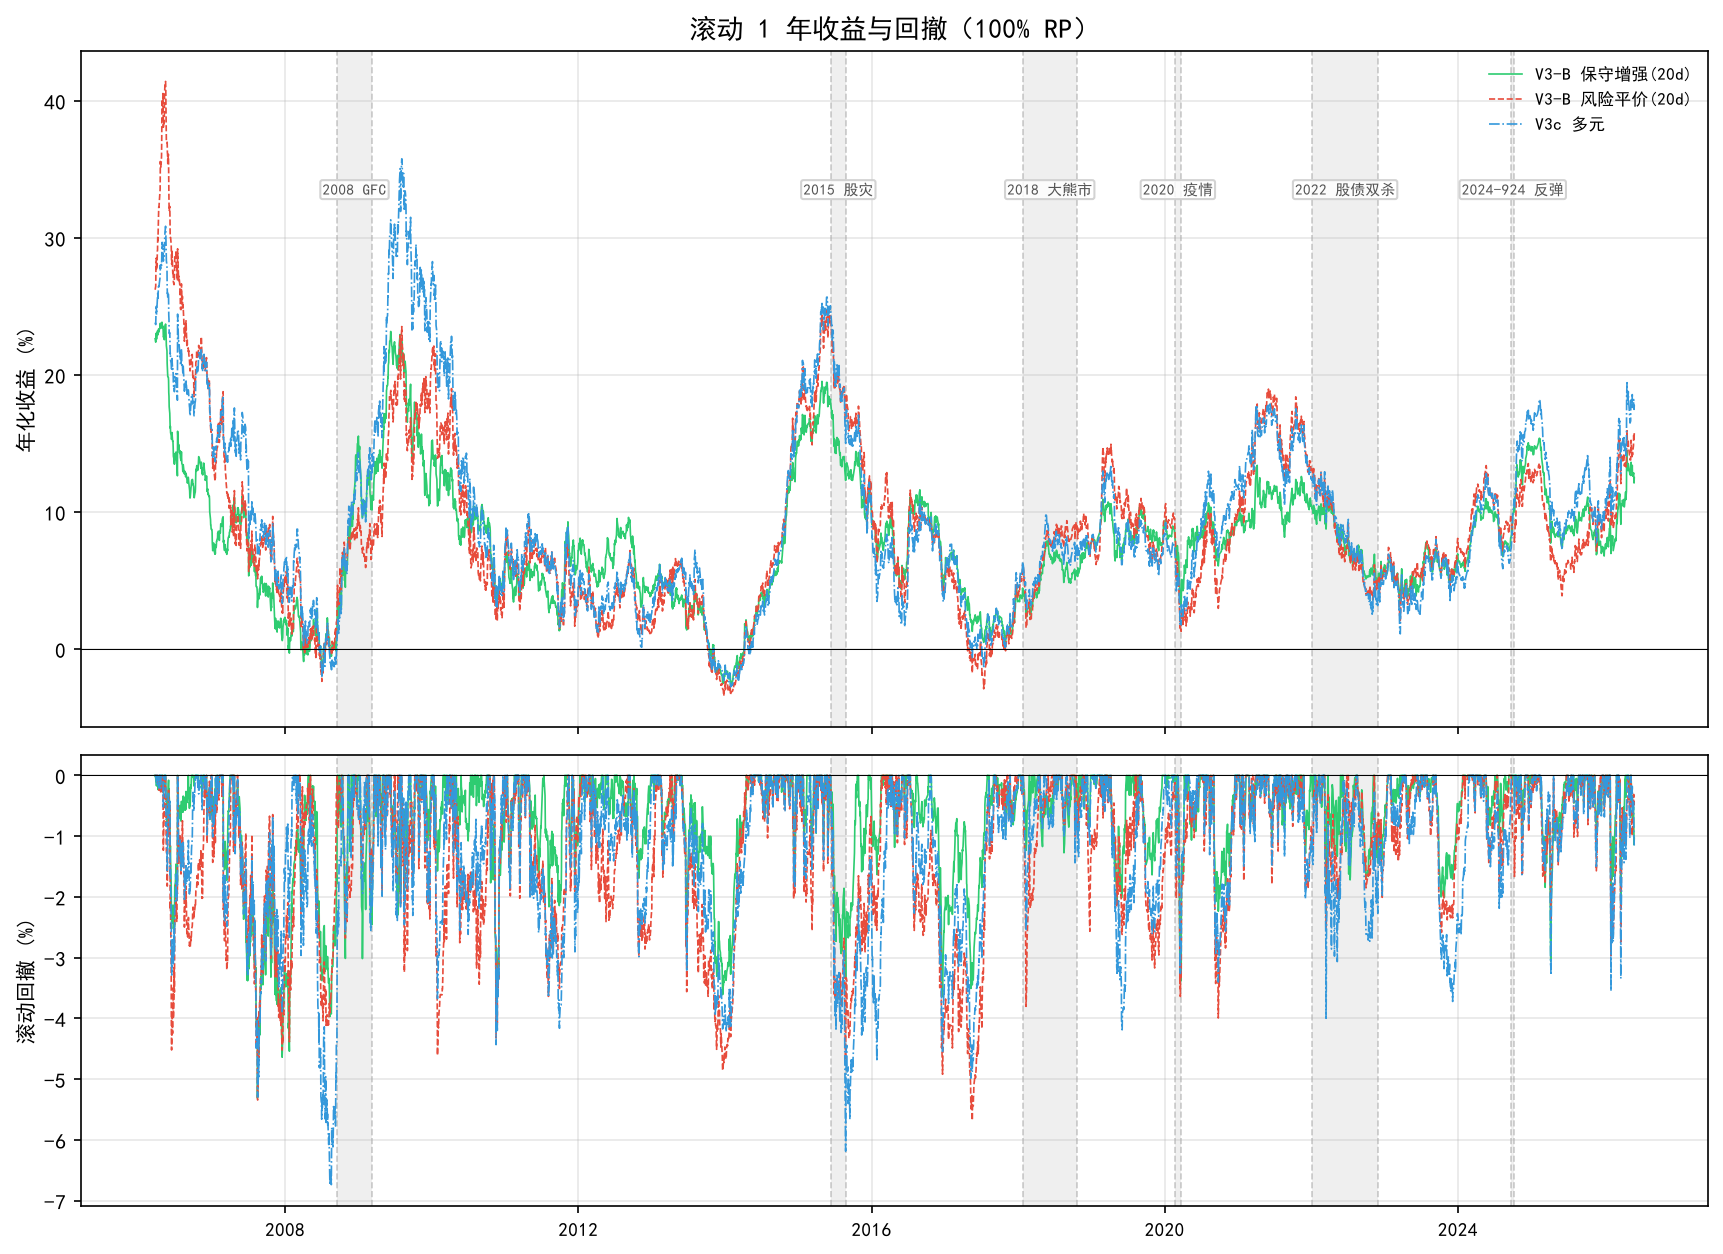
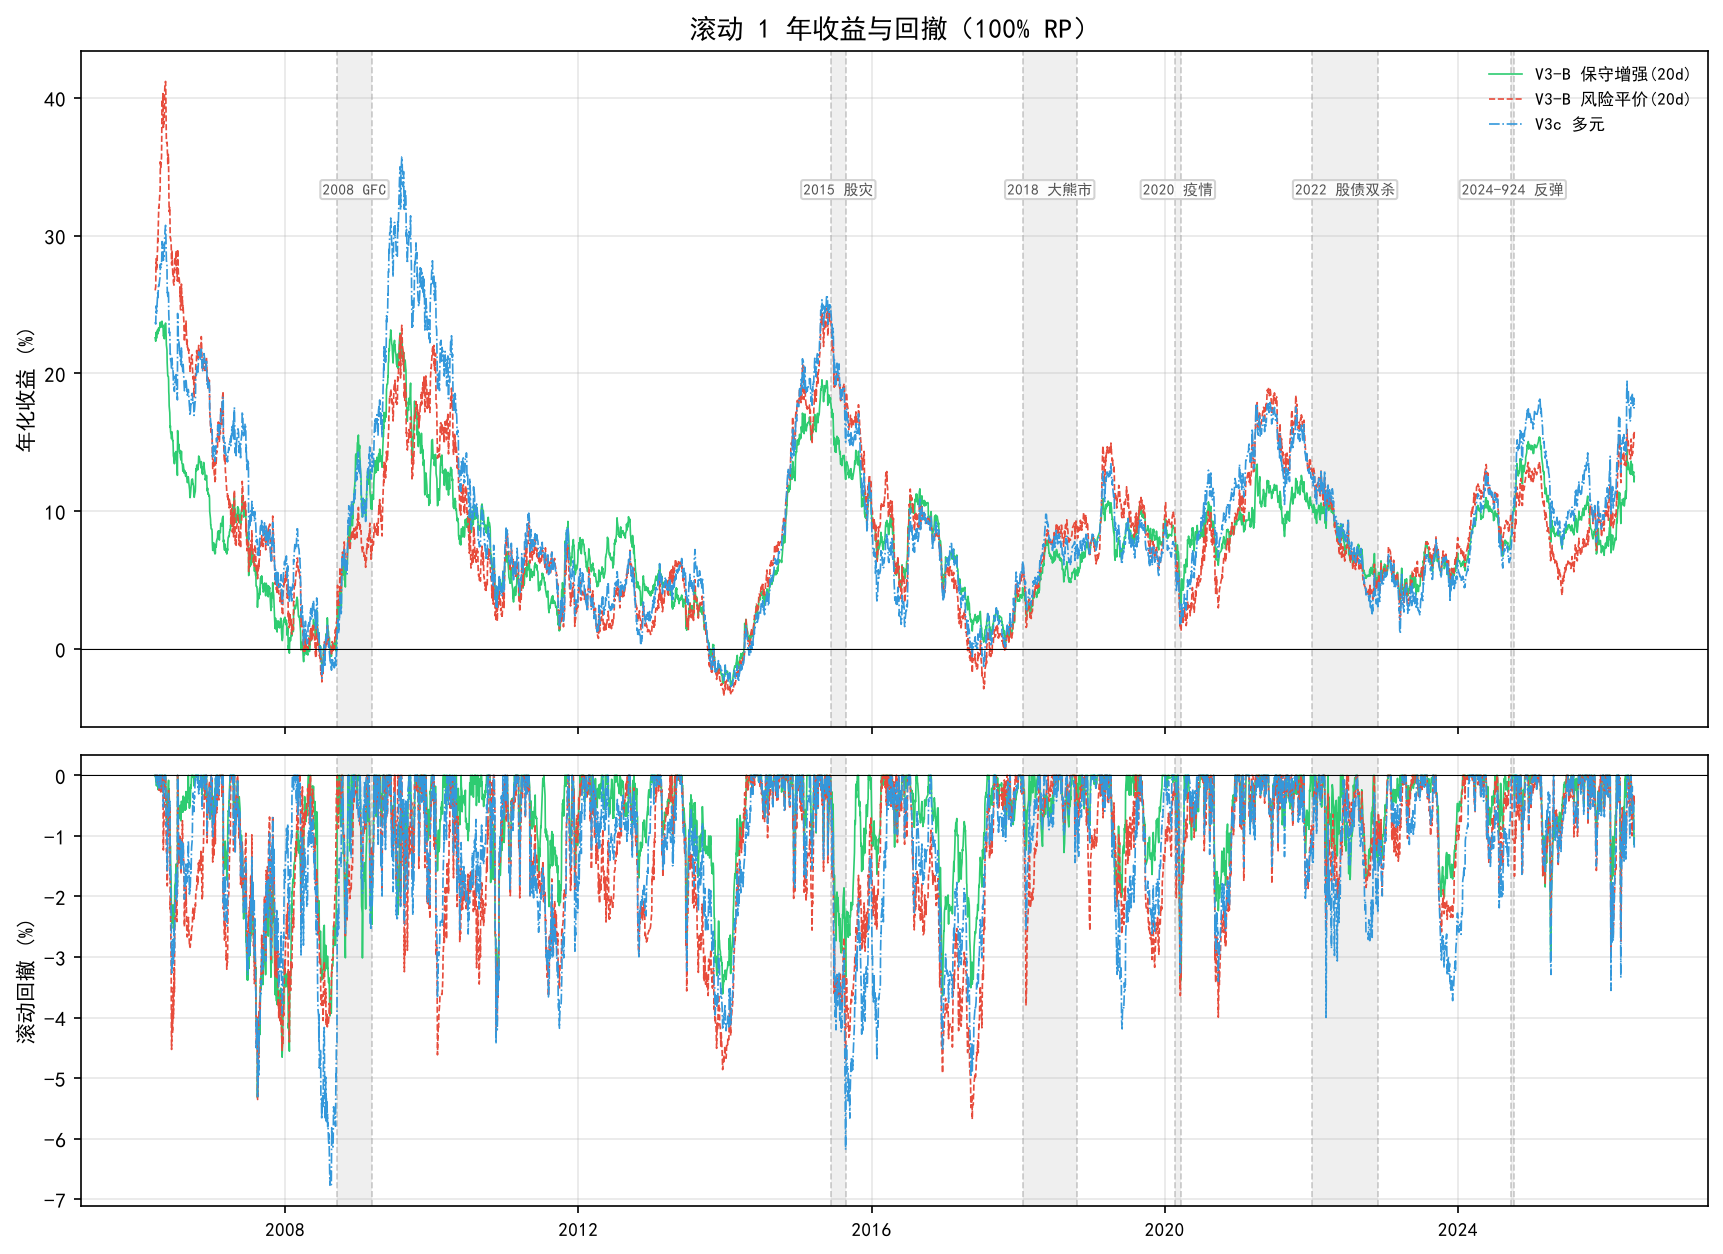
fix: nonferr 沪铜段升水校准 — 159980 ETF vs 沪铜重合期拖累 -0.95%/年，annual_deduct 0→0.0095（同 WTI 校准法）

diff --git a/docs/index.html b/docs/index.html
@@ -1624,9 +1624,10 @@ function downloadHTML() {
 
 
 
+
 <!-- ALLWEATHER_SYNC_START --><script>
 (function(){
-const D = {"V3-B 保守增强(20d)": {"100% RP": {"cum_return": 4.557159, "cagr": 0.082643, "vol": 0.036242, "mdd": -0.053127, "sharpe": 1.811231, "calmar": 1.555561, "final_nv": 5.5572}, "85% RP": {"cum_return": 3.548181, "cagr": 0.072646, "vol": 0.030806, "mdd": -0.04448, "sharpe": 1.806361, "calmar": 1.633238, "final_nv": 4.5482}, "70% RP": {"cum_return": 2.719997, "cagr": 0.062711, "vol": 0.025369, "mdd": -0.035775, "sharpe": 1.801793, "calmar": 1.752915, "final_nv": 3.72}, "动态": {"cum_return": 3.855891, "cagr": 0.075902, "vol": 0.032362, "mdd": -0.039691, "sharpe": 1.820113, "calmar": 1.912344, "final_nv": 4.8559}}, "V3-B 风险平价(20d)": {"100% RP": {"cum_return": 5.367113, "cagr": 0.089484, "vol": 0.049041, "mdd": -0.056805, "sharpe": 1.478027, "calmar": 1.575288, "final_nv": 6.3671}, "85% RP": {"cum_return": 4.113521, "cagr": 0.078481, "vol": 0.041685, "mdd": -0.046388, "sharpe": 1.474884, "calmar": 1.691834, "final_nv": 5.1135}, "70% RP": {"cum_return": 3.101907, "cagr": 0.06753, "vol": 0.034329, "mdd": -0.036177, "sharpe": 1.471935, "calmar": 1.866663, "final_nv": 4.1019}, "动态": {"cum_return": 4.270231, "cagr": 0.079989, "vol": 0.043353, "mdd": -0.056805, "sharpe": 1.452915, "calmar": 1.408131, "final_nv": 5.2702}}, "V3c 多元": {"100% RP": {"cum_return": 6.46871, "cagr": 0.097563, "vol": 0.051231, "mdd": -0.067459, "sharpe": 1.572556, "calmar": 1.446259, "final_nv": 7.4687}, "85% RP": {"cum_return": 4.858101, "cagr": 0.08529, "vol": 0.043546, "mdd": -0.056448, "sharpe": 1.568212, "calmar": 1.510948, "final_nv": 5.8581}, "70% RP": {"cum_return": 3.588929, "cagr": 0.073089, "vol": 0.035861, "mdd": -0.045343, "sharpe": 1.564057, "calmar": 1.611921, "final_nv": 4.5889}}, "_yearly": {"V3-B 保守增强(20d)": {"2005": 0.171943, "2006": 0.114891, "2007": 0.019321, "2008": 0.140551, "2009": 0.124558, "2010": 0.058963, "2011": 0.063884, "2012": 0.056069, "2013": -0.004883, "2014": 0.148338, "2015": 0.101585, "2016": 0.056621, "2017": 0.031086, "2018": 0.075159, "2019": 0.081299, "2020": 0.086555, "2021": 0.09837, "2022": 0.050342, "2023": 0.062217, "2024": 0.136445, "2025": 0.067619, "2026": 0.061539}, "V3-B 风险平价(20d)": {"2005": 0.173158, "2006": 0.202223, "2007": 0.03873, "2008": 0.090164, "2009": 0.199517, "2010": 0.052825, "2011": 0.029799, "2012": 0.022616, "2013": 0.010806, "2014": 0.175591, "2015": 0.108128, "2016": 0.04507, "2017": 0.036892, "2018": 0.077837, "2019": 0.087798, "2020": 0.094322, "2021": 0.121297, "2022": 0.048574, "2023": 0.071175, "2024": 0.115059, "2025": 0.089827, "2026": 0.069804}, "V3c 多元": {"2005": 0.168516, "2006": 0.199244, "2007": 0.055934, "2008": 0.131824, "2009": 0.258722, "2010": 0.063059, "2011": 0.035003, "2012": 0.043586, "2013": 0.009462, "2014": 0.17402, "2015": 0.096382, "2016": 0.044018, "2017": 0.042879, "2018": 0.076429, "2019": 0.074623, "2020": 0.111851, "2021": 0.118135, "2022": 0.047497, "2023": 0.054594, "2024": 0.154794, "2025": 0.095249, "2026": 0.085486}}, "_events": {"V3-B 保守增强(20d)": {"2008 GFC": 0.108117, "2015 股灾": -0.029055, "2016 熔断": -0.000618, "2017 债熊": 0.030098, "2018 大熊市": 0.044629, "2019 春季反弹": 0.031272, "2020 疫情": -0.030281, "2020-Q4 内需复苏": 0.009538, "2021-2 白马回撤": 0.007111, "2022 股债双杀": 0.048261, "2022 理财赎回": 0.006588, "2024 雪球危机": 0.023271, "2024-08 长债": 0.025626, "2024-924 反弹": 0.022485, "2025-Q1 长债": 0.005315, "2025-9 关税": 0.030282}, "V3-B 风险平价(20d)": {"2008 GFC": 0.065813, "2015 股灾": -0.037725, "2016 熔断": -0.003917, "2017 债熊": 0.033713, "2018 大熊市": 0.060255, "2019 春季反弹": 0.066382, "2020 疫情": -0.03211, "2020-Q4 内需复苏": 0.010181, "2021-2 白马回撤": 0.016257, "2022 股债双杀": 0.052742, "2022 理财赎回": 0.005107, "2024 雪球危机": 0.026172, "2024-08 长债": 0.008684, "2024-924 反弹": -0.010897, "2025-Q1 长债": 0.008591, "2025-9 关税": 0.036034}, "V3c 多元": {"2008 GFC": 0.160741, "2015 股灾": -0.054204, "2016 熔断": -0.006506, "2017 债熊": 0.040276, "2018 大熊市": 0.047133, "2019 春季反弹": 0.051029, "2020 疫情": -0.024429, "2020-Q4 内需复苏": 0.009352, "2021-2 白马回撤": 0.013484, "2022 股债双杀": 0.045918, "2022 理财赎回": 0.016303, "2024 雪球危机": 0.026667, "2024-08 长债": 0.037367, "2024-924 反弹": 0.03669, "2025-Q1 长债": 0.018643, "2025-9 关税": 0.040797}}, "_bootstrap": {"V3-B 保守增强(20d)": {"p5": 0.111155, "p25": 0.290412, "median": 0.414498, "p75": 0.538985, "p95": 0.741538, "annual_median": 0.071817, "loss_prob": 0.009}, "V3-B 风险平价(20d)": {"p5": 0.077417, "p25": 0.302263, "median": 0.483476, "p75": 0.654195, "p95": 0.949033, "annual_median": 0.082072, "loss_prob": 0.025}, "V3c 多元": {"p5": 0.044519, "p25": 0.279242, "median": 0.446857, "p75": 0.624361, "p95": 0.931168, "annual_median": 0.076676, "loss_prob": 0.03}}, "_regime": {"V3-B 保守增强(20d)": {"股牛+债牛": {"avg": 0.02918, "n": 34}, "股牛+债熊": {"avg": 0.009304, "n": 14}, "股熊+债牛": {"avg": 0.022209, "n": 29}, "股熊+债熊": {"avg": -0.00235, "n": 8}}, "V3-B 风险平价(20d)": {"股牛+债牛": {"avg": 0.029174, "n": 34}, "股牛+债熊": {"avg": 0.019409, "n": 14}, "股熊+债牛": {"avg": 0.019935, "n": 29}, "股熊+债熊": {"avg": 0.006701, "n": 8}}, "V3c 多元": {"股牛+债牛": {"avg": 0.033837, "n": 34}, "股牛+债熊": {"avg": 0.019775, "n": 14}, "股熊+债牛": {"avg": 0.020745, "n": 29}, "股熊+债熊": {"avg": 0.003863, "n": 8}}}};
+const D = {"V3-B 保守增强(20d)": {"100% RP": {"cum_return": 4.544011, "cagr": 0.082524, "vol": 0.03623, "mdd": -0.053196, "sharpe": 1.808548, "calmar": 1.551309, "final_nv": 5.544}, "85% RP": {"cum_return": 3.539026, "cagr": 0.072546, "vol": 0.030796, "mdd": -0.044539, "sharpe": 1.803705, "calmar": 1.628819, "final_nv": 4.539}, "70% RP": {"cum_return": 2.713826, "cagr": 0.062629, "vol": 0.025361, "mdd": -0.035824, "sharpe": 1.799163, "calmar": 1.748227, "final_nv": 3.7138}, "动态": {"cum_return": 3.845346, "cagr": 0.075794, "vol": 0.032349, "mdd": -0.039729, "sharpe": 1.817511, "calmar": 1.907793, "final_nv": 4.8453}}, "V3-B 风险平价(20d)": {"100% RP": {"cum_return": 5.334406, "cagr": 0.089224, "vol": 0.04902, "mdd": -0.056805, "sharpe": 1.473372, "calmar": 1.570715, "final_nv": 6.3344}, "85% RP": {"cum_return": 4.091169, "cagr": 0.078262, "vol": 0.041667, "mdd": -0.046388, "sharpe": 1.470278, "calmar": 1.687119, "final_nv": 5.0912}, "70% RP": {"cum_return": 3.087125, "cagr": 0.067351, "vol": 0.034314, "mdd": -0.03625, "sharpe": 1.467378, "calmar": 1.857976, "final_nv": 4.0871}, "动态": {"cum_return": 4.245724, "cagr": 0.079756, "vol": 0.04333, "mdd": -0.056805, "sharpe": 1.448321, "calmar": 1.404028, "final_nv": 5.2457}}, "V3c 多元": {"100% RP": {"cum_return": 6.437346, "cagr": 0.097349, "vol": 0.051209, "mdd": -0.067699, "sharpe": 1.569041, "calmar": 1.43797, "final_nv": 7.4373}, "85% RP": {"cum_return": 4.837165, "cagr": 0.08511, "vol": 0.043528, "mdd": -0.056654, "sharpe": 1.564738, "calmar": 1.502266, "final_nv": 5.8372}, "70% RP": {"cum_return": 3.575408, "cagr": 0.072943, "vol": 0.035846, "mdd": -0.045515, "sharpe": 1.560624, "calmar": 1.602606, "final_nv": 4.5754}}, "_yearly": {"V3-B 保守增强(20d)": {"2005": 0.171517, "2006": 0.114547, "2007": 0.019129, "2008": 0.140382, "2009": 0.12413, "2010": 0.058637, "2011": 0.063669, "2012": 0.055645, "2013": -0.00495, "2014": 0.148338, "2015": 0.101585, "2016": 0.056621, "2017": 0.031086, "2018": 0.075159, "2019": 0.081299, "2020": 0.086555, "2021": 0.09837, "2022": 0.050342, "2023": 0.062217, "2024": 0.136445, "2025": 0.067619, "2026": 0.061539}, "V3-B 风险平价(20d)": {"2005": 0.171793, "2006": 0.20115, "2007": 0.03844, "2008": 0.089811, "2009": 0.19881, "2010": 0.05219, "2011": 0.02944, "2012": 0.021805, "2013": 0.010647, "2014": 0.175591, "2015": 0.108128, "2016": 0.04507, "2017": 0.036892, "2018": 0.077837, "2019": 0.087798, "2020": 0.094322, "2021": 0.121297, "2022": 0.048574, "2023": 0.071175, "2024": 0.115059, "2025": 0.089827, "2026": 0.069804}, "V3c 多元": {"2005": 0.16782, "2006": 0.198582, "2007": 0.055629, "2008": 0.131454, "2009": 0.257844, "2010": 0.062438, "2011": 0.034675, "2012": 0.042846, "2013": 0.009324, "2014": 0.17402, "2015": 0.096382, "2016": 0.044018, "2017": 0.042879, "2018": 0.076429, "2019": 0.074623, "2020": 0.111851, "2021": 0.118135, "2022": 0.047497, "2023": 0.054594, "2024": 0.154794, "2025": 0.095249, "2026": 0.085486}}, "_events": {"V3-B 保守增强(20d)": {"2008 GFC": 0.108106, "2015 股灾": -0.029055, "2016 熔断": -0.000618, "2017 债熊": 0.030098, "2018 大熊市": 0.044629, "2019 春季反弹": 0.031272, "2020 疫情": -0.030281, "2020-Q4 内需复苏": 0.009538, "2021-2 白马回撤": 0.007111, "2022 股债双杀": 0.048261, "2022 理财赎回": 0.006588, "2024 雪球危机": 0.023271, "2024-08 长债": 0.025626, "2024-924 反弹": 0.022485, "2025-Q1 长债": 0.005315, "2025-9 关税": 0.030282}, "V3-B 风险平价(20d)": {"2008 GFC": 0.065798, "2015 股灾": -0.037725, "2016 熔断": -0.003917, "2017 债熊": 0.033713, "2018 大熊市": 0.060255, "2019 春季反弹": 0.066382, "2020 疫情": -0.03211, "2020-Q4 内需复苏": 0.010181, "2021-2 白马回撤": 0.016257, "2022 股债双杀": 0.052742, "2022 理财赎回": 0.005107, "2024 雪球危机": 0.026172, "2024-08 长债": 0.008684, "2024-924 反弹": -0.010897, "2025-Q1 长债": 0.008591, "2025-9 关税": 0.036034}, "V3c 多元": {"2008 GFC": 0.160722, "2015 股灾": -0.054204, "2016 熔断": -0.006506, "2017 债熊": 0.040276, "2018 大熊市": 0.047133, "2019 春季反弹": 0.051029, "2020 疫情": -0.024429, "2020-Q4 内需复苏": 0.009352, "2021-2 白马回撤": 0.013484, "2022 股债双杀": 0.045918, "2022 理财赎回": 0.016303, "2024 雪球危机": 0.026667, "2024-08 长债": 0.037367, "2024-924 反弹": 0.03669, "2025-Q1 长债": 0.018643, "2025-9 关税": 0.040797}}, "_bootstrap": {"V3-B 保守增强(20d)": {"p5": 0.10961, "p25": 0.288288, "median": 0.412514, "p75": 0.536818, "p95": 0.739417, "annual_median": 0.071516, "loss_prob": 0.009}, "V3-B 风险平价(20d)": {"p5": 0.073957, "p25": 0.298607, "median": 0.478498, "p75": 0.64837, "p95": 0.942229, "annual_median": 0.081345, "loss_prob": 0.028}, "V3c 多元": {"p5": 0.04237, "p25": 0.276478, "median": 0.443688, "p75": 0.620771, "p95": 0.926362, "annual_median": 0.076204, "loss_prob": 0.03}}, "_regime": {"V3-B 保守增强(20d)": {"股牛+债牛": {"avg": 0.029145, "n": 34}, "股牛+债熊": {"avg": 0.009272, "n": 14}, "股熊+债牛": {"avg": 0.022194, "n": 29}, "股熊+债熊": {"avg": -0.002389, "n": 8}}, "V3-B 风险平价(20d)": {"股牛+债牛": {"avg": 0.029091, "n": 34}, "股牛+债熊": {"avg": 0.019342, "n": 14}, "股熊+债牛": {"avg": 0.0199, "n": 29}, "股熊+债熊": {"avg": 0.006633, "n": 8}}, "V3c 多元": {"股牛+债牛": {"avg": 0.033773, "n": 34}, "股牛+债熊": {"avg": 0.019719, "n": 14}, "股熊+债牛": {"avg": 0.020717, "n": 29}, "股熊+债熊": {"avg": 0.003792, "n": 8}}}};
 
 function pct(v, d) { return (v*100).toFixed(d||2)+'%'; }
 function ps(v, d) { var s=(v*100).toFixed(d||2)+'%'; return (v>=0?'+':'')+s; }
@@ -2084,6 +2085,7 @@ if (T) {
 console.log('data.json sync: '+Object.keys(D).length+' strategies loaded');
 })();
 </script><!-- ALLWEATHER_SYNC_END -->
+
 
 
 

diff --git a/allweather/data.py b/allweather/data.py
@@ -319,8 +319,9 @@ def load_panel(include_wti: bool = True) -> pd.DataFrame:
     shfe_copper = load_series("shfe_copper")
 
     # 构建 pre-ETF 的完整 proxy 链（铜 → 指数）
+    # 沪铜段扣 0.0095：159980 期货 ETF vs 沪铜 6.4 年重合期年度拖累 -0.95%（费率+移仓损耗），同 WTI 校准法
     if not shfe_copper.empty and not nonferr_idx.empty:
-        nonferr_proxy = stitch_series(nonferr_idx, shfe_copper, annual_deduct=0.0)
+        nonferr_proxy = stitch_series(nonferr_idx, shfe_copper, annual_deduct=0.0095)
     elif not nonferr_idx.empty:
         nonferr_proxy = nonferr_idx
     else:

diff --git a/README-zh.md b/README-zh.md
@@ -23,9 +23,9 @@
 
 | 方案 | 风格 | CAGR | 波动率 | 最大回撤 | Sharpe | 一句话 |
 |------|:----:|:----:|:------:|:--------:|:-----:|--------|
-| **V3-B 保守增强(20d)** | 保守增强 | **8.26%** | 3.62% | **-5.31%** | **1.81** | 逆波动率 20d + nonferr(75d) + HS300 AND 抄底 |
-| **V3-B 风险平价(20d)** | 学院派 | 8.95% | 4.90% | -5.68% | 1.48 | 4 桶等权 HRP + nonferr/gold/sp500/hs300 趋势 + 抄底 + 波动率控制 |
-| **V3c 多元** | 多元全天候 | **9.76%** | 5.12% | -6.75% | 1.57 | 6 资产逆波动率 20d + nonferr/gold/sp500 趋势(75d) + HS300 AND 抄底 |
+| **V3-B 保守增强(20d)** | 保守增强 | **8.25%** | 3.62% | **-5.32%** | **1.81** | 逆波动率 20d + nonferr(75d) + HS300 AND 抄底 |
+| **V3-B 风险平价(20d)** | 学院派 | 8.92% | 4.90% | -5.68% | 1.47 | 4 桶等权 HRP + nonferr/gold/sp500/hs300 趋势 + 抄底 + 波动率控制 |
+| **V3c 多元** | 多元全天候 | **9.73%** | 5.12% | -6.77% | 1.57 | 6 资产逆波动率 20d + nonferr/gold/sp500 趋势(75d) + HS300 AND 抄底 |
 
 > V3-B RP 四重趋势过滤：nonferr(75d) + gold(75d) + sp500(75d) + hs300(30d)；V3c 三重趋势过滤：nonferr(75d) + gold(75d) + sp500(75d)。不含 bond_10y（CAGR +1.43pp, Sharpe -0.02）。V3c 多元 6 资产逆波动率 20d，同样不含 bond_10y。三策略均含原油（WTI 75d 趋势过滤，默认集成）。
 
